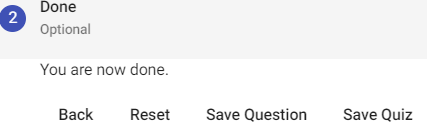
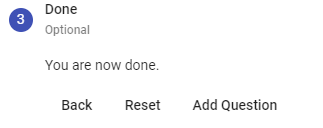
Update user docs

Changed region(s): [[0.1238, 0.7812, 0.9907, 0.9062], [0.0, 0.0, 0.2786, 0.2812], [0.0929, 0.4688, 0.4954, 0.5625]]

diff --git a/Documentation/User.md b/Documentation/User.md
@@ -10,150 +10,190 @@ User Manual
 How-To:
 
 # Register
-1. When at the login page <br> ![login screen](https://github.com/mkidd04/RefReps-Education/blob/main/Documentation/Pictures/sign-in-page.png)
+1. When at the login page <br> ![login screen](./Pictures/sign-in-page.png)
 2. Select the "Register" button 
-3. You will be brought new page with textboxes ![register-textboxes](https://user-images.githubusercontent.com/29185972/158277421-75a9a359-34eb-4c9b-879b-1639955f272b.png)
-4. Enter your email and a password 
+3. You will be brought new page with textboxes ![register-textboxes](./Pictures/create-account.png)
+4. Enter your first and last name, email, and password
 5. Click "Sign Up" 
-6. You can now use that information to login to the system 
+6. You can now use that information to login to the system (it should automatically log you in upon clicking sign up)
 
 # Login
-1. When at the login page <br> ![login screen](https://github.com/mkidd04/RefReps-Education/blob/main/Documentation/Pictures/sign-in-page.png)
+1. When at the login page <br> ![login screen](./Pictures/sign-in-page.png)
 2. Enter your email and password that belongs to your account in the corresponding textboxes 
 3. When credentials are added click login button
 4. You should be logged in and at the home page
 
+# Adding the First Admin to the Database
+1. Make sure to have a registered user (know the email)
+2. Connect to the mongodb database
+   - Recommendation: Use `MongoDB Compass` to connect to the database
+   - If connecting to a local database, use `mongodb://localhost:27017` as the connection string
+   - If using a dockerized mongodb image, make sure to connect to the ip address in the connection string, e.g., `mongodb://10.0.0.73:27017`
+   - If using a cloud provider, make sure to use the correct connection string.
+3. Using MongoDB Compass
+   - Click on the refreps database, and click the users collection.
+   - Edit the role of the desired user. Change role: `user` to role: `admin`
+4. Using the mongo shell
+   - Use the refreps database `use refreps`
+   - Enter: `db.users.updateMany({email: {$eq: 'admin@email.com'}}, {$set: {role: 'admin'}})` where admin@email.com is the desired account email you wish to make an admin
+
+# Displaying all Users (Admin)
+1. Once logged in as an admin, navigate to `list all users` on the sidnav ![nav-users](./Pictures/list-every-user-nav.png)
+2. Notice the users listed ![all-users](./Pictures/display-all-users.png)
+3. Feel free to use the filter users. (searches search across email, name, and role)
+
+# Updating a User's Password (Admin)
+1. Navigate to display all users [click here to see how](#displaying-all-users-admin)
+2. When looking at the users, click the menu edit button on the user row, then click `change password`
+3. When prompted, enter the new password (and confirm)
+![change-password](./Pictures/user-edit-password.png)
+4. Click `Confirm` to accept this change
+
 # View Available Courses 
-1. From the sidebar on the left side, click the Courses button ![course button](https://github.com/mkidd04/RefReps-Education/blob/main/Documentation/Pictures/course_icon.png) 
+1. From the sidebar on the left side, click the Courses button ![course button](./Pictures/course_icon.png) 
    This will bring you to the course dashboard that shows all the available courses
 
 # Join an Existing Course 
-You must have registered for an account to join a course
+**You must have registered for an account to join a course**
 ## Join a course by the invite code 
 1. If you need to join a course, contact your instructor for a course coupon code. 
 2. Once in possession of an invite code, navigate to the available courses. 
-3. At the bottom of the available courses, there will be a text box to enter a coupon code. ![coupon code](https://github.com/mkidd04/RefReps-Education/blob/main/Documentation/Pictures/join-by-coupon-code.png)
+3. At the bottom of the available courses, there will be a text box to enter a coupon code. ![coupon code](./Pictures/join-by-coupon-code.png)
 4. Type the code provided by your instructor and press "Join Course"
 5. The page will reload nd you will be added to the course
 
 ## Join a course by the link
 1. If your instructor sent you a link instead of a code log in to your account and paste the link into the URL section of your browser. 
-![invite link](https://github.com/mkidd04/RefReps-Education/blob/main/Documentation/Pictures/url-invite-link.png)
+![invite link](./Pictures/url-invite-link.png)
 2. The page will reload and you will be added to the course. 
 
 # Admin/Author View 
-## Add a Course 
-1. From the sidebar on the left of the screen, click the Create Course tab, ![course create tab](https://github.com/mkidd04/RefReps-Education/blob/main/Documentation/Pictures/add-course-tab.png) underneath the available course button 
+## Add a Course (Admin)
+1. From the sidebar on the left of the screen, click the Create Course tab, ![course create tab](./Pictures/add-course-tab.png) underneath the available course button 
 - The application allows users to create a course from scratch and to copy an existing course along with any exisiting material
 
 ### Create a course from scratch
-1. To create a course from scratch, click the "Create New Course" button <br>![add-course-from-scratch](https://github.com/mkidd04/RefReps-Education/blob/main/Documentation/Pictures/create-new-course-scratch.png)<br>
+1. To create a course from scratch, click the "Create New Course" button <br>![add-course-from-scratch](./Pictures/create-new-course-scratch.png)<br>
 - This will bring you to a dialog box<br>
-   ![add-course-dialog](https://github.com/mkidd04/RefReps-Education/blob/main/Documentation/Pictures/Add-course-dialog.png)<br>
+   ![add-course-dialog](./Pictures/Add-course-dialog.png)<br>
 2. Enter the desired course name into the text box.
 3. If you would like the course to be available on the dashboard once it is created, set the "Publish Course" to be true
 4. When the information on the dialog is filled in, press submit 
 5. The course will now be available on the dashboard
 
 ### Create a course by copying another course
-1. To create a copy of an existing course, while in the add course tab, click the "Create From Template" button ![add-course-from-copy](https://github.com/mkidd04/RefReps-Education/blob/main/Documentation/Pictures/create-new-course-copy.png)
-2. This will bring you to a dialog box<br> ![add-course-copy-dialog](https://github.com/mkidd04/RefReps-Education/blob/main/Documentation/Pictures/copy-course-dialog.png)
+1. To create a copy of an existing course, while in the add course tab, click the "Create From Template" button ![add-course-from-copy](./Pictures/create-new-course-copy.png)
+2. This will bring you to a dialog box<br> ![add-course-copy-dialog](./Pictures/copy-course-dialog.png)
 3. In the first box, select the existing course you would like to copy
 4. Enter the name for the new course
 5. Then press "Submit" to complete the copy
 6. The new course can now be seen and accessed from the view course tab 
 
+Alternatively, you may also copy a course from the dashboard and click the menu to copy a course. This will auto populate the course information. (see picture below)
+
+![copy-course-dashboard](./Pictures/course-copy-from-dashboard.png)
+
+## Delete a Course (Admin)
+1. Follow the steps above to get to the course dashboard
+2. Select the menu icon (3 dots on the course card)
+![course-card-menu](./Pictures/course-copy-from-dashboard.png)
+3. Click the delete option
+4. When prompted with the dialog, enter the course name in the input
+![course-delete-confirmation](./Pictures/course-delete-dialog-confirmation.png)
+5. Click the delete button to confirm deleting the course (this will soft delete the course)
 
 ## View Content in Available courses
 1. Follow the steps above to get to the course dashboard 
-![](https://github.com/mkidd04/RefReps-Education/blob/main/Documentation/Pictures/course-dashboard.png)
+![](./Pictures/course-dashboard.png)
 2. Click on the desired course name
 3. When the course page loads the section and module info will load
-![image](https://user-images.githubusercontent.com/29185972/140863619-6613ac74-a31d-4a18-9c67-6f2e1e0d40c9.png)
+![image](./Pictures/course-home-contents.png)
 4. The files housed in the module will be listed
 
 ## Building out a curriculum
 ### Add Section to Available Course
-1. When viewing the content in courses click the edit curriculum button at the bottom right of the content dashboard ![image](https://user-images.githubusercontent.com/29185972/140863830-b77c8e08-c09d-44d9-861f-3a9ef56dcb78.png)
-2. In the edit curriculum page, click the "Add New Section" button ![add-section-button](https://github.com/mkidd04/RefReps-Education/blob/main/Documentation/Pictures/add-section-button.png)
-3. A dialog box will appear, enter the desired section name, and click the submit button to finish the section creation process <br> ![add-section-dialog](https://github.com/mkidd04/RefReps-Education/blob/main/Documentation/Pictures/add-section-dialog.png)
+1. When viewing the content in courses click the edit curriculum button at the bottom right of the content dashboard ![image](./Pictures/edit-cirriculum.png)
+2. In the edit curriculum page, click the "Add New Section" button ![add-section-button](./Pictures/add-section-button.png)
+3. A dialog box will appear, enter the desired section name, and click the submit button to finish the section creation process <br> ![add-section-dialog](./Pictures/add-section-dialog.png)
 4. The section name will populate the screen when completed
 5. Click the "finish button" at the bottom of the page to finish the curriculum editing process
 ### Add Module to a Section
 1. Refer to the first step of the last instruction to get to the edit curriculum page
 2. A section is needed to create a module, if there are no sections available, follow the steps above to create one.
-3. To the right of the section name, click the three vertical dots ![add-module-button](https://github.com/mkidd04/RefReps-Education/blob/main/Documentation/Pictures/three-vertical-dots.png)
-4. A small box will appear underneath the three dots, click the blue "+" button ![add-module-dialog](https://github.com/mkidd04/RefReps-Education/blob/main/Documentation/Pictures/blue-plus-button.png)<br>
-5. You will be presented with a dialog box <br> ![add-module-dialog](https://github.com/mkidd04/RefReps-Education/blob/main/Documentation/Pictures/add-module-dialog.png)
+3. To the right of the section name, click the three vertical dots ![add-module-button](./Pictures/three-vertical-dots.png)
+4. A small box will appear underneath the three dots, click the blue "+" button ![add-module-dialog](./Pictures/blue-plus-button.png)<br>
+5. You will be presented with a dialog box <br> ![add-module-dialog](./Pictures/add-module-dialog.png)
 6. Enter the desired name of the module
 7. Click submit to finish adding the module to the current section
 8. Click the section name in order to reveal that the module has been added
-9. Finally, click the finish button at the bottom of the page to finish the curriculum editing process ![finish-edit](https://github.com/mkidd04/RefReps-Education/blob/main/Documentation/Pictures/finish-curriculum-edit.png)
+9. Finally, click the finish button at the bottom of the page to finish the curriculum editing process ![finish-edit](./Pictures/finish-curriculum-edit.png)
 ## Add content to a module
 - A module is required to add content to a course
 ### Add video content to a module 
-1. From the edit currriculum page, click the three vertical dots to the right of the module name ![add-content-button](https://github.com/mkidd04/RefReps-Education/blob/main/Documentation/Pictures/three-vertical-dots.png) that you wish to add content to
-2. In the dialog box that pops up, be sure to be in the "video" tab<br>![image](https://github.com/mkidd04/RefReps-Education/blob/main/Documentation/Pictures/add-content-dialog.png)
+1. From the edit currriculum page, click the three vertical dots to the right of the module name ![add-content-button](./Pictures/three-vertical-dots.png) that you wish to add content to
+2. In the dialog box that pops up, be sure to be in the "video" tab<br>![image](./Pictures/add-content-dialog.png)
 3. Click the blue paper clip button to open file explorer. Choose the desired file to be upload and click "open" in file explorer. 
 4. The dialog box will now have the file, click the green submit button at the bottom of the dialog to add the file to the module.
 5. Click the module name in the course to see the uploaded content
 6. Click the finish button at the bottom of the page to finish the curriculum editing process
 ### Add quiz content to a module
-1. From the edit currriculum page, click the three vertical dots to the right of the module name ![add-content-button](https://github.com/mkidd04/RefReps-Education/blob/main/Documentation/Pictures/three-vertical-dots.png) that you wish to add content to
-2. In the dialog box that pops up, be sure to be in the "quiz" tab<br> ![add-quiz-content](https://github.com/mkidd04/RefReps-Education/blob/main/Documentation/Pictures/add-content-dialog-quiz.png) 
+1. From the edit currriculum page, click the three vertical dots to the right of the module name ![add-content-button](./Pictures/three-vertical-dots.png) that you wish to add content to
+2. In the dialog box that pops up, be sure to be in the "quiz" tab<br> ![add-quiz-content](./Pictures/add-content-dialog-quiz.png) 
 3. Enter the desired name for the quiz 
 4. Click the "Create Quiz" button 
 5. The page will reload and an empty quiz will be made under the selected module
 ### Add question to a quiz
 1. As an author/admin, from the currriculum home page, select the quiz that you would like to edit
-2. This will take you to a quiz landing page, click the blue "Edit Quiz" button <br> ![edit-quiz](https://github.com/mkidd04/RefReps-Education/blob/main/Documentation/Pictures/edit-quiz-btn.png)
-3. If there are already questions in the quiz, scroll to the bottom of the page, click the " Add New Question" button ![](https://github.com/mkidd04/RefReps-Education/blob/main/Documentation/User.md)
+2. This will take you to a quiz landing page, click the blue "Edit Quiz" button <br> ![edit-quiz](./Pictures/edit-quiz-btn.png)
+3. If there are already questions in the quiz, scroll to the bottom of the page, click the " Add New Question" button ![](./User.md)
 4. Add the question that you would like to ask, and select the type of question it will be, i.e. Multiple Choice, True/False, or text box free response
    - The selected question type will change the options that you have moving forward
 5. When done entering the question and the type of question, click next.  The next step will change depending on the type of question that was chosen
 #### Multiple Choice Question
-1. If you selected the "multiple choice" question type, the next step will present you with four textboxes labeled A, B, C, and D respectively. Here you will put in the options that you want to be made available. <br> ![multiple-choice-options](https://github.com/mkidd04/RefReps-Education/blob/main/Documentation/Pictures/multiple-choice-options.png)
-2. Once each option is entered into the text boxes, select the letter that corresponds to the correct answer ![multiple-choice-answer-options](https://github.com/mkidd04/RefReps-Education/blob/main/Documentation/Pictures/multiple-choice-answer-options.png)
+1. If you selected the "multiple choice" question type, the next step will present you with four textboxes labeled A, B, C, and D respectively. Here you will put in the options that you want to be made available. <br> ![multiple-choice-options](./Pictures/multiple-choice-options.png)
+2. Once each option is entered into the text boxes, select the letter that corresponds to the correct answer ![multiple-choice-answer-options](./Pictures/multiple-choice-answer-options.png)
 3. When you have entered all the options and selected the correct answer, click "next"
 #### True False Question 
-1. If you selected the "True False" question type, you will be presented with two buttons <br> ![true-false-option](https://github.com/mkidd04/RefReps-Education/blob/main/Documentation/Pictures/true-false-options.png)
+1. If you selected the "True False" question type, you will be presented with two buttons <br> ![true-false-option](./Pictures/true-false-options.png)
 2. Select the correct answer to the question 
 3. When the questions answer has been selected, click "next"
 #### Free Response Question 
-1. If you selected the "Text" question type, you will be presented with a single text box <br> ![free-response-option](https://github.com/mkidd04/RefReps-Education/blob/main/Documentation/Pictures/free-response-options.png)
+1. If you selected the "Text" question type, you will be presented with a single text box <br> ![free-response-option](./Pictures/free-response-options.png)
 2. Here you will enter the answer to the question
 3. When you have filled in the text box with the answer to the question, press "next"
 #### Submitting the quiz question 
-1. When finished with the question, the next step is to save the question or the whole quiz <br> ![quiz-builder-last-step](https://github.com/mkidd04/RefReps-Education/blob/main/Documentation/Pictures/last-step-of-quiz-builder.png)
+1. When finished with the question, the next step is to save the question<br> ![quiz-builder-last-step](./Pictures/last-step-of-quiz-builder.png)
 2. The user can click "Save Question" to save the question, and then click "Reset" to reset the form and add another question.
-3. If the user is done creating the quiz, they can exit the quiz question creation box, and next to the "Add New Question" button, click the "Save Quiz" button ![](https://github.com/mkidd04/RefReps-Education/blob/main/Documentation/Pictures/SAVE-QUIZ-BTN.png)
+3. If the user is done creating the quiz, they can exit the quiz question creation box, and next to the "Add New Question" button
+
+![](./Pictures/SAVE-QUIZ-BTN.png)
 
 #### Viewing Already Made Quiz 
-The questions will be listed with the answer to the question highlighted. <br>![correct_answer](https://user-images.githubusercontent.com/29185972/158287440-5072aef5-24d1-4088-82bf-fed123c7f0f5.png)
+The questions will be listed with the answer to the question highlighted. <br>![correct_answer](./Pictures/correct-answer-question.png)
 
 #### Deleting a quiz question 
 1. When looking at the question you want to delete, click the three vertical dots to open an options menu
-![options-menu-delete-question](https://user-images.githubusercontent.com/29185972/158275868-292f4fad-ce14-4eba-90df-a75e0c540fac.png)
+![options-menu-delete-question](./Pictures/menu-trash-icon.png)
 2. Click the red trashcan to delete the question
-3. Click the "Save Quiz" button ![](https://github.com/mkidd04/RefReps-Education/blob/main/Documentation/Pictures/SAVE-QUIZ-BTN.png)
+3. Click the "Save Quiz" button ![](./Pictures/SAVE-QUIZ-BTN.png)
 
 #### Rearranging questions
 1. When in the edit quiz page of the quiz you wish to edit, click and drag the question you want to move and drop it on top of where you would like it to be<br>
-![drag-drop-questions](https://user-images.githubusercontent.com/29185972/158276146-ea18c956-7b85-4c77-87c8-b05519130a7b.png)
-2. click the "Save Quiz" button when finished ![](https://github.com/mkidd04/RefReps-Education/blob/main/Documentation/Pictures/SAVE-QUIZ-BTN.png)
+![drag-drop-questions](./Pictures/move-questions-around.png)
+2. click the "Save Quiz" button when finished ![](./Pictures/SAVE-QUIZ-BTN.png)
 
 ### Add Drop Dates to Content
-1. In the course curriculum page, click the three vertical dots ![three-vertical-dots](https://user-images.githubusercontent.com/29185972/158278814-96866477-97ca-44b0-8d57-c0434af160f1.png)
+1. In the course curriculum page, click the three vertical dots ![three-vertical-dots](./Pictures/three-vertical-dots.png)
 next to the content you would like to add drop dates to.
-2. Click the "drop dates" option ![drop-date-edit-btn](https://user-images.githubusercontent.com/29185972/158279103-65121ed6-cbdc-4460-91ff-4d7a745ee037.png)
-3. Enter the date and time that you want the content to drop at <br>![select-drop-date](https://user-images.githubusercontent.com/29185972/158279049-bcb2a951-cb4b-4909-9c29-b693a2868b98.png)
+2. Click the "drop dates" option ![drop-date-edit-btn](./Pictures/drop-date-button.png)
+3. Enter the date and time that you want the content to drop at <br>![select-drop-date](./Pictures/drop-date-select-dialog.png)
 
 
 
 ### Setting Course Enforcements
 - As an admin/author, from the available courses dashboard, click the course that you would like to change course enforcements for
-- When in the course, on the side panel to the left of the sections, click "Settings" <br> ![students](https://github.com/mkidd04/RefReps-Education/blob/main/Documentation/Pictures/course-side-bar.png)
-- The top box will be used for changes course enforcements <br>![](https://github.com/mkidd04/RefReps-Education/blob/main/Documentation/Pictures/course-enforcement-settings.png)
+- When in the course, on the side panel to the left of the sections, click "Settings" <br> ![students](./Pictures/course-side-bar.png)
+- The top box will be used for changes course enforcements <br>![](./Pictures/course-enforcement-settings.png)
 - You can turn course enforcements off completely by toggling the "Course Enforcements" toggle
 - To change the required quiz grade by percent, enter the percentage desireed next to "Enforcement Percent"
 - To change the allowed quiz attempts, enter the amount of attempts next to "Max Quiz Attempts"
@@ -161,61 +201,91 @@ next to the content you would like to add drop dates to.
 
 ### View Quiz Grades
 1. As an admin/author click on the quiz that you would like to see the grades for
-2. It will take you to a landing page where you can see the students submissions and grades <br>![viewing-grades-Itr4](https://user-images.githubusercontent.com/29185972/158276626-e6083c73-c841-4c16-bb9a-fd2bed2864ac.png)
+2. It will take you to a landing page where you can see the students submissions and grades <br>![viewing-grades-Itr4](./Pictures/student-grades-all-quiz.png)
+
+Alternatively, as a student, you will see only your own attempts for a quiz.
 
 ### View Individual Submissions
 1. Click the quiz that you would like to view the submissions of
-2. Click the eye button next to the students submission in that you wish to see ![viewing-quiz-sub-student-it4](https://user-images.githubusercontent.com/29185972/158277042-46823df9-0160-49d5-b11a-940980a379f7.png)
-3. This will route you to a pgae that shows the details of the students submission <br>![view-students-sub](https://user-images.githubusercontent.com/29185972/158277236-78381081-99e3-4ed0-906f-ba14170bdd89.png)
+2. Click the eye button next to the students submission in that you wish to see ![viewing-quiz-sub-student-it4](./Pictures/vewing-quiz-button.png)
+3. This will route you to a pgae that shows the details of the students submission <br>![view-students-sub](./Pictures/quiz-submission-results.png)
+
+Note: As a student, you will only be able to view your own submissions
+
+### Viewing Overall Course Grades (Author/Admin)
+1. Inside of a course, navigate to the `Grades` tab on the left side
+2. You will see a list of all students' overall grades in that course
+![overall-grades](./Pictures/grades-overall.png)
+3. Clicking on the student or eye ball will bring you to that student's best grades for each quiz
+
+### Viewing Overall Course Grades (Student)
+1. Inside of a course, navigate to the `Grades` tab on the left side
+2. You will see a list of all of your best quiz results and your overall course grade
+![overall-grades-student](./Pictures/grades-overall-student.png)
+3. Clicking the eyeball on that page will view that submission
+4. Clicking the `i` icon will bring the user to all the grades for that user on the quiz to view all of their attempts.
+
+### Force Completing a Content for a User (Author/Admin)
+
+Force completing content for a user is intended for technical difficulties on the student's end when they are unable to complete a content.<br>
+Force completing will **NOT** give a better grade on that content.<br>
+Force completing **WILL** allow the student to skip over the content if they choose to do so.
+
+1. Go to the edit course ([click here for information to navigate there](#building-out-a-curriculum))
+2. Click on the content's menu button you wish to force complete a student on
+3. Click `student progress`
+![student-progress-menu](./Pictures/progress-link.png)
+4. Notice the progress page ![progress-page](./Pictures/progress-force-complete.png)
+5. Click the `green circular checkmark` on students you wish to force complete the content
 
 ### Delete a Section 
-1. From the edit curriculum page, next to the section you wish to delete, press the three vertical dots ![image](https://github.com/mkidd04/RefReps-Education/blob/main/Documentation/Pictures/three-vertical-dots.png)
-2. A small box will appear under the vertical dots, click the red trashcan button <br> ![image](https://github.com/mkidd04/RefReps-Education/blob/main/Documentation/Pictures/trashcan-button.png)
+1. From the edit curriculum page, next to the section you wish to delete, press the three vertical dots ![image](./Pictures/three-vertical-dots.png)
+2. A small box will appear under the vertical dots, click the red trashcan button <br> ![image](./Pictures/trashcan-button.png)
 
 ### Reorder Section, Module, or Content in a Module
 1. From the edit curriculum page, click and hold the name of the component you wish to rearrange and move it to the desired position. 
 2. Click the finish button at the bottom of the page to finish the curriculum editing process
 
 ## Stream uploaded videos
-1. From the course dashboard, click the name of the module in which the content is located to expand the content list<br> ![image](https://github.com/mkidd04/RefReps-Education/blob/main/Documentation/Pictures/listed-content.png)
+1. From the course dashboard, click the name of the module in which the content is located to expand the content list<br> ![image](./Pictures/listed-content.png)
 2. When the list of contents is available, click the name of the video you wish to watch
 3. The video will be brought up in another page 
 
 ## Add/Remove authors to a course 
 - As an admin, from the available courses dashboard, click the course that you would like to add authors to
-- When in the course, on the side panel to the left of the sections, click "Authors" <br> ![authors](https://github.com/mkidd04/RefReps-Education/blob/main/Documentation/Pictures/course-side-bar.png)
+- When in the course, on the side panel to the left of the sections, click "Authors" <br> ![authors](./Pictures/course-side-bar.png)
 
 ### Add authors 
-1. You will be presented with a text box, enter the email of the author you wish to add to the course ![add-authors](https://github.com/mkidd04/RefReps-Education/blob/main/Documentation/Pictures/add-author.png)
+1. You will be presented with a text box, enter the email of the author you wish to add to the course ![add-authors](./Pictures/add-author.png)
 2. When the auhtors email is entered press the "Add Author" button, the email of the author will be listed below
 3. When you are finished adding the auhtors, press the "Complete" button
 
 ### Remove Authors
-1. Underneath the textbox for "Add Author" there is a textbox for "Remove Author" ![remove-authors](https://github.com/mkidd04/RefReps-Education/blob/main/Documentation/Pictures/remove-author.png)
+1. Underneath the textbox for "Add Author" there is a textbox for "Remove Author" ![remove-authors](./Pictures/remove-author.png)
 2. Enter the authors email that you wish to remove from the class
 3. When the authors email is entered, press the "Remove Author" button 
 4. When you are finished removing the authors, press the "Complete" button
 
 ## Add/Remove students to a course 
 - As an admin or an author, from the available courses dashboard, click the course that you would like to add students to
-- When in the course, on the side panel to the left of the sections, click "Students" <br> ![students](https://github.com/mkidd04/RefReps-Education/blob/main/Documentation/Pictures/course-side-bar.png)
+- When in the course, on the side panel to the left of the sections, click "Students" <br> ![students](./Pictures/course-side-bar.png)
 
 ### Add students 
-1. You will be presented with a text box, enter the email of the student you wish to add to the course ![add-students](https://github.com/mkidd04/RefReps-Education/blob/main/Documentation/Pictures/add-student-to-class.png)
+1. You will be presented with a text box, enter the email of the student you wish to add to the course ![add-students](./Pictures/add-student-to-class.png)
 2. When the students email is entered press the "Add Student" button, the email of the student will be listed below
 3. When you are finished adding the students, press the "Complete" button
 
 ### Remove Students
-1. Underneath the textbox for "Add Student" there is a textbox for "Remove Student" ![remove-student](https://github.com/mkidd04/RefReps-Education/blob/main/Documentation/Pictures/remove-student-from-class.png)
+1. Underneath the textbox for "Add Student" there is a textbox for "Remove Student" ![remove-student](./Pictures/remove-student-from-class.png)
 2. Enter the students email that you wish to remove from the class
 3. When the students email is entered, press the "Remove Student" button 
 4. When you are finished removing the students, press the "Complete" button
 
 ## Invite Students to the Course
-### Create a Coupon Code
+### Create a Coupon Code (Admin)
 - As an admin, from the available courses dashboard, click the course that you would like to invite students to
-- When in the course, on the side panel to the left of the sections, click "Settings" <br> ![students](https://github.com/mkidd04/RefReps-Education/blob/main/Documentation/Pictures/course-side-bar.png)
-- In the bottom box, you can customize the settings for the invite code <br> ![invite-code-settings](https://github.com/mkidd04/RefReps-Education/blob/main/Documentation/Pictures/course-link-settings.png)
+- When in the course, on the side panel to the left of the sections, click "Settings" <br> ![students](./Pictures/course-side-bar.png)
+- In the bottom box, you can customize the settings for the invite code <br> ![invite-code-settings](./Pictures/course-link-settings.png)
 - You can set the desired student capacity by entering number next to "Student Capacity"
 - You can set the name of the coupon code by typing the name you want next to the section that says "Coupon Code"
 - To set the date that the code expires, enter the desired date next to "Coupon Valid Until"
@@ -224,8 +294,8 @@ next to the content you would like to add drop dates to.
 
 ### Get an invite link for students
 - As an admin, from the available courses dashboard, click the course that you would like to invite students to
-- When in the course, on the side panel to the left of the sections, click "Students" <br> ![students](https://github.com/mkidd04/RefReps-Education/blob/main/Documentation/Pictures/course-side-bar.png)
-- At the bottom of the Students dashboard there is a "Course Link" ![course-link](https://github.com/mkidd04/RefReps-Education/blob/main/Documentation/Pictures/course-invite-link.png)
+- When in the course, on the side panel to the left of the sections, click "Students" <br> ![students](./Pictures/course-side-bar.png)
+- At the bottom of the Students dashboard there is a "Course Link" ![course-link](./Pictures/course-invite-link.png)
 - Copy the link and send it to your students
 - The students must have an account registered for the invite link to work for them
 
@@ -233,22 +303,22 @@ next to the content you would like to add drop dates to.
 
 ## Taking a quiz
 1. As a student, inside of a course and the courses module, click the name of the quiz you would like to take. 
-2. You will be taken to another page that presents you a "Start Quiz" button and the details of your previous submissions. <br> ![quiz-landing-page](https://user-images.githubusercontent.com/29185972/158277666-ca3f82d2-77c7-424e-bf3e-7fc1fc8fe04d.png)
+2. You will be taken to another page that presents you a "Start Quiz" button and the details of your previous submissions. <br> ![quiz-landing-page](./Pictures/quiz-start-screen.png)
 3. Go through each question and select or type the answer you wish to provide
 4. When all of the questions have an answer, click "Submit" at the bottom of the page 
 
 ## Viewing Past Submissions
 1. Click the quiz that you would like to view the submission of
-2. Click the eye button next to the submission that you wish to see ![viewing-quiz-sub-student-it4](https://user-images.githubusercontent.com/29185972/158277042-46823df9-0160-49d5-b11a-940980a379f7.png)
+2. Click the eye button next to the submission that you wish to see ![viewing-quiz-sub-student-it4](./Pictures/vewing-quiz-button.png)
 3. This will route you to a page that shows the details of your submission <br> 
-![graded-student-quiz](https://user-images.githubusercontent.com/29185972/158287975-d750a68f-f1d8-4711-9589-241c31db8c00.png)
+![graded-student-quiz](./Pictures/quiz-submission-results-feedback.png)
 4. Your questions will be highlighted green if they are right, or red is they are wrong.
 
 ## Locked Content
-- If there is a lock next to the quiz name, you cannot take the quiz until it is past the lock date. <br> ![locked-quiz](https://user-images.githubusercontent.com/29185972/158278489-842e7303-f71c-42a9-a09e-e415a7f4d531.png)
+- If there is a lock next to the quiz name, you cannot take the quiz until it is past the lock date. <br> ![locked-quiz](./Pictures/content-locked.png)
 
 ## Stream uploaded videos
-1. From the course dashboard, click the name of the module in which the video is located to expand the content list<br> ![image](https://github.com/mkidd04/RefReps-Education/blob/main/Documentation/Pictures/listed-content.png)<br>
+1. From the course dashboard, click the name of the module in which the video is located to expand the content list<br> ![image](./Pictures/listed-content.png)<br>
    - Any file that has ".mp4" is a video that can be watched
 3. When the list of contents is available, click the name of the video you wish to watch
 4. The video will be brought up in another page 
